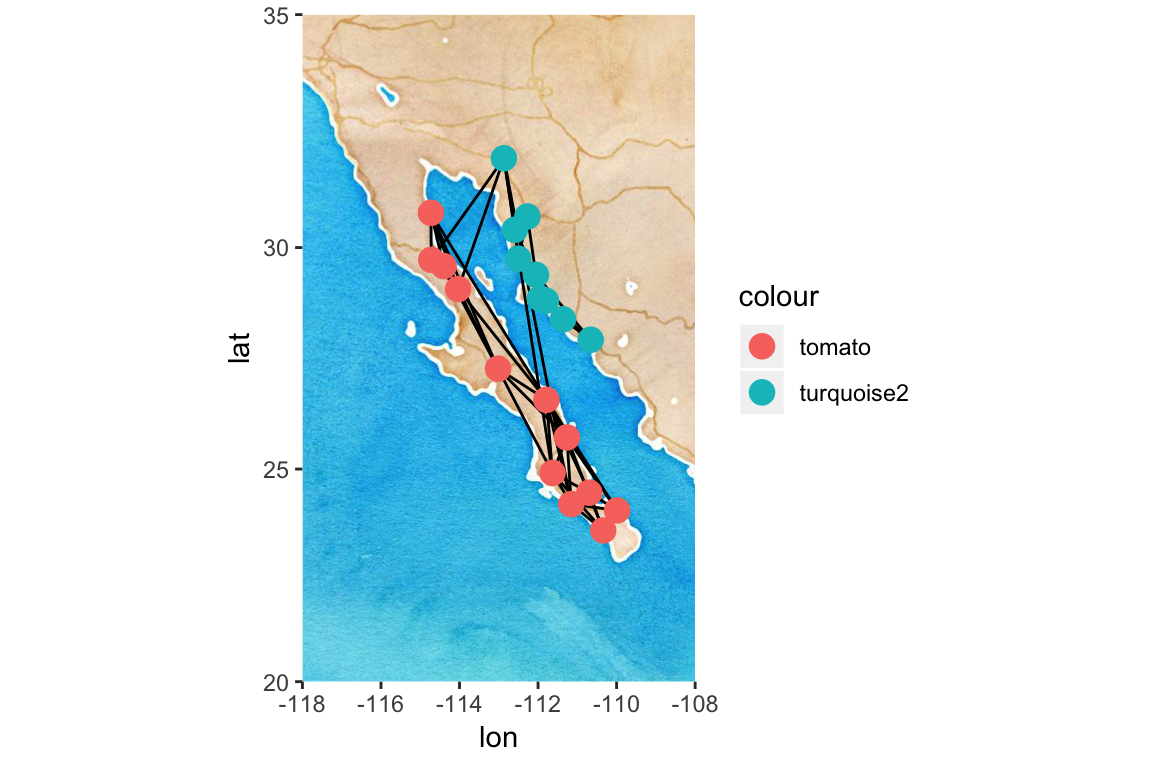
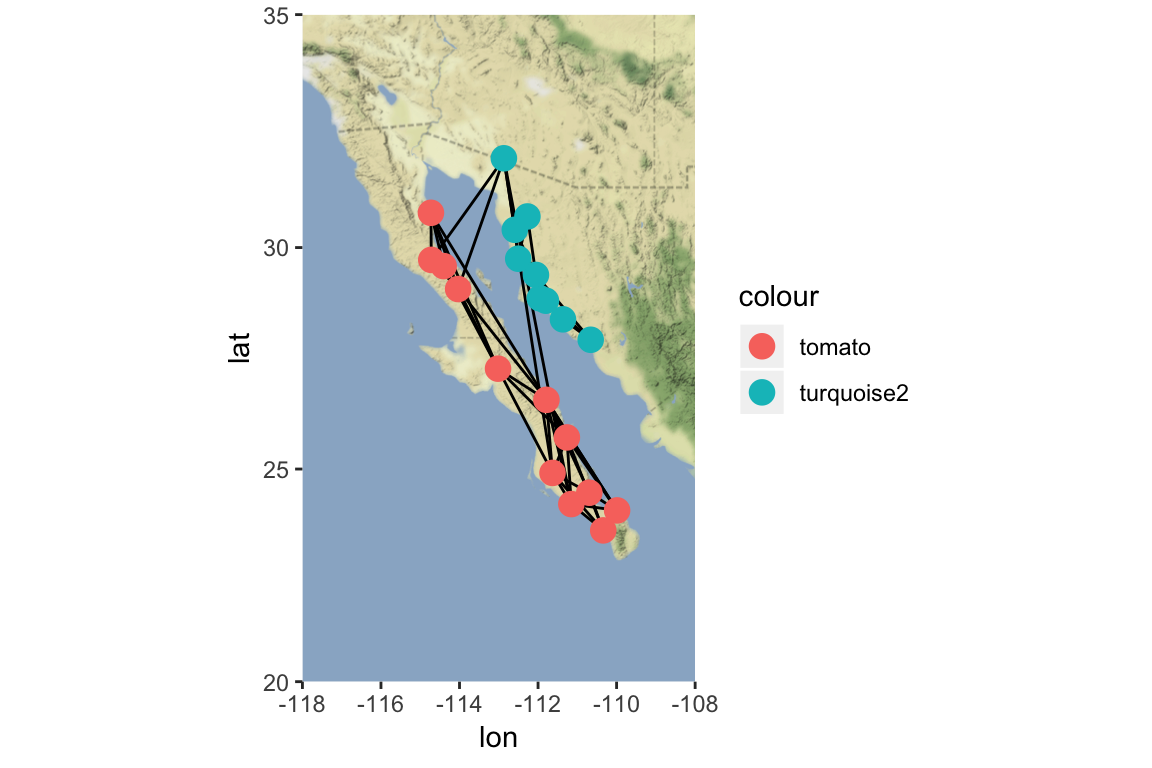
spatial net update

Changed region(s): [[0.25, 0.0, 0.625, 0.9062]]

diff --git a/networktypes_spatialnets.html b/networktypes_spatialnets.html
@@ -332,7 +332,7 @@ p #plot color</code></pre>
 <p><img src="assets/images/popgraph_google.jpg" width="566" style="display: block; margin: auto;" /></p>
 <p>If you don’t want to get an API key, you can use other databases supported in the <code>ggmap</code> package, such as <code>get_stamenmap()</code>. This will not let you do a satellite image, but you can make pretty graphs nonetheless.</p>
 <pre class="r"><code>location = c( mean(V(g)$x), mean(V(g)$y))
-map=get_stamenmap(location, bbox=c(left=-118, bottom=20, right=-108, top=35), zoom=6, source=&quot;stamen&quot;, maptype=&quot;watercolor&quot;)
+map=get_stamenmap(location, bbox=c(left=-118, bottom=20, right=-108, top=35), zoom=6, source=&quot;stamen&quot;, maptype=&quot;terrain-background&quot;)
 
 p=ggmap(map)
 p = p + geom_edgeset(aes(x=x, y=y), g, color=&quot;black&quot;) #plot will also include the network edges, in white
